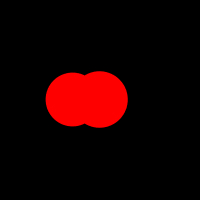
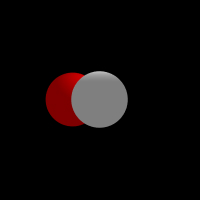
Lights and materials.

Changed region(s): [[0.21, 0.33, 0.66, 0.66]]

diff --git a/src/rt/application.cpp b/src/rt/application.cpp
@@ -13,6 +13,9 @@
 #include <rt/lights/point.h>
 #include <rt/lights/directional.h>
 
+// Materials.
+#include <rt/materials/matte.h>
+
 namespace RT {
 
     Application::Application(const std::string& name, int width, int height) : _width(width),
@@ -20,17 +23,20 @@ namespace RT {
                                                                                _background(glm::vec3(0.0f)),
                                                                                _writer(new JPGWriter(name, width, height)),
                                                                                _camera(new Pinhole(glm::vec3(0.0f, 0.0f, 100.0f), glm::vec3(0.0f), glm::vec3(0.0f, 1.0f, 0.0f), 20.0f, (float)_width / (float)_height)),
-                                                                               _sampler(new MultiStratified(36, 83))
+                                                                               _sampler(new MultiStratified())
                                                                                {
     }
 
     void Application::Init() {
         _sampler->Generate();
 
-        _ambient = new Ambient();
+        // Lights.
+        _ambient = new Ambient(1.0f, glm::vec3(0.5f));
+        _lights.push_back(new Point(glm::vec3(0.0f, 8.0f, 0.0f)));
 
-        _objects.push_back(new Sphere(glm::vec3(0.0f), 5.0f));
-        _objects.push_back(new Sphere(glm::vec3(-5.0f, 0.0f, -5.0f), 5.0f));
+        // Objects.
+        _objects.push_back(new Sphere(new Matte(glm::vec3(1.0f), 1.0f, 1.0f), glm::vec3(0.0f), 5.0f));
+        _objects.push_back(new Sphere(new Matte(glm::vec3(1.0f, 0.0f, 0.0f), 1.0f, 1.0f), glm::vec3(-5.0f, 0.0f, -5.0f), 5.0f));
     }
 
     void Application::Run() {
@@ -67,16 +73,6 @@ namespace RT {
                 }
 
                 radiance /= (float)numSamples;
-
-
-//                // Antialiasing.
-//                for (int sample = 0; sample < samplesPerPixel; ++sample) {
-//                    u = ((float)x + glm::linearRand(0.0f, 1.0f)) / (float)(_width - 1);
-//                    v = ((float)y + glm::linearRand(0.0f, 1.0f)) / (float)(_height - 1);
-//
-//                    pixelColor += RayColor(_camera.GetRay(u, v), numRayBounces);
-//                }
-
                 _writer->WriteColor(x, y, radiance);
             }
         }
@@ -89,12 +85,28 @@ namespace RT {
     glm::vec3 Application::Trace(const Ray &ray) const {
         HitRecord hitRecord;
 
+        bool hit = false;
+        float nearest = std::numeric_limits<float>::max();
+
+        // Intersect with all objects to get the nearest intersection.
         for (IObject* object : _objects) {
-            if (object->Hit(ray, hitRecord)) {
-                return glm::vec3(1.0f, 0.0f, 0.0f);
+            HitRecord temp;
+
+            if (object->Hit(ray, temp) && (temp.dt < nearest)) {
+                hit = true;
+                nearest = temp.dt;
+                hitRecord = temp;
             }
         }
 
-        return _background;
+        if (!hit) {
+            return _background;
+        }
+
+        SceneData sceneData;
+        sceneData._ambient = _ambient;
+        sceneData._lights = &_lights;
+
+        return hitRecord.material->GetRadiance(ray, hitRecord, sceneData);
     }
 }

diff --git a/src/rt/materials/matte.cpp b/src/rt/materials/matte.cpp
@@ -1,0 +1,33 @@
+
+#include <rt/materials/matte.h>
+#include <rt/samplers/multi_stratified.h>
+
+namespace RT {
+
+    Matte::Matte(const glm::vec3 &color, float ambientBrightness, float diffuseBrightness) : IMaterial(),
+                                                                                             _ambient(new Lambertian(new MultiStratified(), ambientBrightness, color)),
+                                                                                             _diffuse(new Lambertian(new MultiStratified(), diffuseBrightness, color))
+                                                                                             {
+    }
+
+    Matte::~Matte() {
+        delete _ambient;
+        delete _diffuse;
+    }
+
+    glm::vec3 Matte::GetRadiance(const Ray& ray, const HitRecord &hitRecord, const SceneData& sceneData) {
+        glm::vec3 D = -ray.direction;
+        glm::vec3 radiance = _ambient->GetReflectance(hitRecord, D) * sceneData._ambient->GetRadiance(hitRecord); // Start with ambient contribution.
+
+        for (ILight* light : *sceneData._lights) {
+            glm::vec3 L = light->GetDirection(hitRecord);
+            float NdotL = glm::dot(hitRecord.normal, L);
+
+            if (NdotL > 0.0f) {
+                radiance += _diffuse->GetBRDF(hitRecord, D, L) * light->GetRadiance(hitRecord) * NdotL; // Diffuse Phong model.
+            }
+        }
+
+        return radiance;
+    }
+}

diff --git a/src/rt/objects/primitives/sphere.cpp b/src/rt/objects/primitives/sphere.cpp
@@ -3,10 +3,10 @@
 
 namespace RT {
 
-    Sphere::Sphere(const glm::vec3 &center, float radius) : IObject(),
-                                                            _center(center),
-                                                            _radius(radius)
-                                                            {
+    Sphere::Sphere(IMaterial* material, const glm::vec3 &center, float radius) : IObject(material),
+                                                                                 _center(center),
+                                                                                 _radius(radius)
+                                                                                 {
     }
 
     Sphere::~Sphere() = default;
@@ -38,6 +38,7 @@ namespace RT {
             hitRecord.dt = t;
             hitRecord.point = point;
             hitRecord.normal = glm::normalize((point - _center) / _radius);
+            hitRecord.material = _material;
 
             return true;
         }
@@ -52,6 +53,7 @@ namespace RT {
             hitRecord.dt = t;
             hitRecord.point = point;
             hitRecord.normal = glm::normalize((point - _center) / _radius);
+            hitRecord.material = _material;
 
             return true;
         }

diff --git a/src/rt/objects/primitives/plane.cpp b/src/rt/objects/primitives/plane.cpp
@@ -3,10 +3,10 @@
 
 namespace RT {
 
-    Plane::Plane(const glm::vec3 &normal, const glm::vec3 &point) : IObject(),
-                                                                    _point(point),
-                                                                    _normal(normal)
-                                                                    {
+    Plane::Plane(IMaterial* material, const glm::vec3 &normal, const glm::vec3 &point) : IObject(material),
+                                                                                         _point(point),
+                                                                                         _normal(normal)
+                                                                                         {
     }
 
     Plane::~Plane() = default;
@@ -30,6 +30,7 @@ namespace RT {
         hitRecord.dt = t;
         hitRecord.normal = _normal;
         hitRecord.point = ray.StepTo(t);
+        hitRecord.material = _material;
 
         return true;
     }

diff --git a/include/rt/materials/matte.h b/include/rt/materials/matte.h
@@ -1,0 +1,25 @@
+
+#ifndef RT_MATTE_H
+#define RT_MATTE_H
+
+#include <rt/materials/material.h>
+#include <rt/brdf/lambertian.h>
+
+namespace RT {
+
+    class Matte : public IMaterial {
+        public:
+            explicit Matte(const glm::vec3& color, float ambientBrightness = 1.0f, float diffuseBrightness = 1.0f);
+            ~Matte() override;
+
+            [[nodiscard]] glm::vec3 GetRadiance(const Ray& ray, const HitRecord& hitRecord, const SceneData& sceneData) override;
+
+        private:
+            // Material BRDFs.
+            Lambertian* _ambient;
+            Lambertian* _diffuse;
+    };
+
+}
+
+#endif //RT_MATTE_H

diff --git a/include/rt/objects/object.h b/include/rt/objects/object.h
@@ -5,21 +5,20 @@
 #include <pch.h>
 #include <rt/utilities/ray.h>
 #include <rt/utilities/hit_record.h>
+#include <rt/materials/material.h>
 
 namespace RT {
 
     class IObject {
         public:
-            IObject();
+            explicit IObject(IMaterial* material);
             virtual ~IObject();
 
             virtual bool Hit(const Ray& ray, HitRecord& hitRecord) const = 0;
+            IMaterial* GetMaterial() const;
 
         protected:
-            glm::vec3 _color;
-
-        private:
-
+            IMaterial* _material;
     };
 
 }

diff --git a/include/rt/materials/material.h b/include/rt/materials/material.h
@@ -1,0 +1,23 @@
+
+#ifndef RT_MATERIAL_H
+#define RT_MATERIAL_H
+
+#pragma once
+
+#include <pch.h>
+#include <rt/utilities/ray.h>
+#include <rt/utilities/scene_data.h>
+
+namespace RT {
+
+    class IMaterial {
+        public:
+            IMaterial();
+            virtual ~IMaterial();
+
+            [[nodiscard]] virtual glm::vec3 GetRadiance(const Ray& ray, const HitRecord& hitRecord, const SceneData& sceneData);
+    };
+
+}
+
+#endif //RT_MATERIAL_H

diff --git a/include/rt/samplers/multi_stratified.h b/include/rt/samplers/multi_stratified.h
@@ -8,8 +8,8 @@ namespace RT {
 
     class MultiStratified : public ISampler {
         public:
-            MultiStratified(int numSamples, int numSampleSets);
-            ~MultiStratified();
+            explicit MultiStratified(int numSamples = 36, int numSampleSets = 83);
+            ~MultiStratified() override;
 
         private:
             void Shuffle(std::vector<glm::vec2>& samples) override;

diff --git a/src/rt/utilities/hit_record.cpp b/src/rt/utilities/hit_record.cpp
@@ -3,11 +3,10 @@
 
 namespace RT {
 
-    HitRecord::HitRecord() : hit(false),
-                             dt(-1),
+    HitRecord::HitRecord() : dt(-1),
                              point(glm::vec3(0.0f)),
                              normal(glm::vec3(0.0f)),
-                             color(glm::vec3(0.0f))
+                             material(nullptr)
                              {
     }
 

diff --git a/include/rt/objects/primitives/plane.h b/include/rt/objects/primitives/plane.h
@@ -8,7 +8,7 @@ namespace RT {
 
     class Plane : public IObject {
         public:
-            Plane(const glm::vec3& normal, const glm::vec3& point);
+            Plane(IMaterial* material, const glm::vec3& normal, const glm::vec3& point);
             ~Plane() override;
 
             [[nodiscard]] bool Hit(const Ray& ray, HitRecord& hitRecord) const override;

diff --git a/include/rt/utilities/hit_record.h b/include/rt/utilities/hit_record.h
@@ -3,6 +3,7 @@
 #define RT_HIT_RECORD_H
 
 #include <pch.h>
+#include <rt/materials/material.h>
 
 namespace RT {
 
@@ -10,11 +11,10 @@ namespace RT {
         HitRecord();
         ~HitRecord();
 
-        bool hit;
         float dt;
         glm::vec3 point;
         glm::vec3 normal;
-        glm::vec3 color;
+        IMaterial* material;
     };
 
 }

diff --git a/include/rt/objects/primitives/sphere.h b/include/rt/objects/primitives/sphere.h
@@ -9,7 +9,7 @@ namespace RT {
 
     class Sphere : public IObject {
         public:
-            Sphere(const glm::vec3& center, float radius);
+            Sphere(IMaterial* material, const glm::vec3& center, float radius);
             ~Sphere() override;
 
             [[nodiscard]] bool Hit(const Ray& ray, HitRecord& hitRecord) const override;
